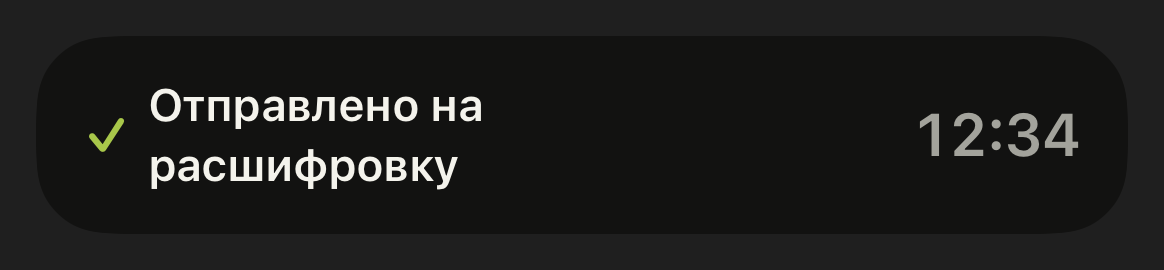
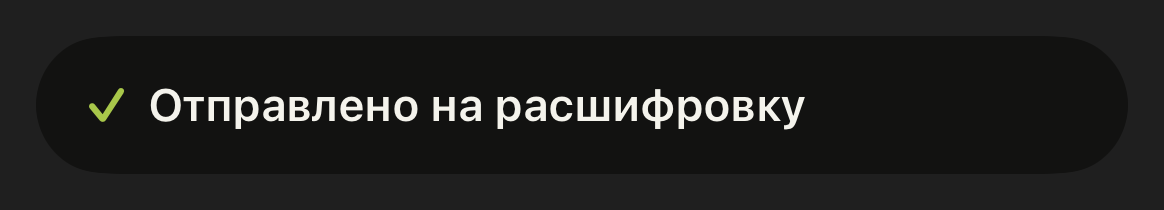
test(ios): кнопки островка в фоне — пауза, продолжить, сохранить; заметка о записи в фоне
- RecordingUITests: «Пауза» → «Продолжить» → «Сохранить» нажимаются в
  настоящем островке симулятора, пока Lori в фоне; запись оказывается в
  списке. Плашка записи над листом — на заглушке микрофона.
- Прощание островка без таймера: «0:00» читалось как пустая запись.
- CLAUDE.md: «Запись в фоне, пауза при звонке и Dynamic Island — 24 октября
  2026» — что сделано, замеры, проверено числами (816 модульных, 0 падений),
  что не проверено, сценарий для телефона, риски IPA Shelf.
- AGENTS.md: правило про подложку экрана блокировки.

Changed region(s): [[0.0928, 0.3143, 0.7113, 0.7143], [0.7732, 0.4, 0.9278, 0.6], [0.0619, 0.5143, 0.0928, 0.5714]]

diff --git a/ios/LoriLocalUITests/RecordingUITests.swift b/ios/LoriLocalUITests/RecordingUITests.swift
@@ -115,6 +115,49 @@ final class RecordingUITests: XCTestCase {
         XCTAssertTrue(app.buttons["recordButton"].waitForExistence(timeout: 10))
     }
 
+    /// Кнопки островка, пока Lori не на виду: пауза, продолжение и «Сохранить» идут
+    /// интентами в процесс приложения, и запись оказывается в списке, хотя Lori никто
+    /// не открывал. Микрофон тут заглушка — право начать запись из фона
+    /// (`AudioRecordingIntent`) проверяется только на телефоне; здесь — вся проводка.
+    func testIslandButtonsPauseResumeAndSaveWithoutOpeningLori() throws {
+        continueAfterFailure = false
+        let app = launch()
+        let firstBefore = cards(in: app).firstMatch.waitForExistence(timeout: 3)
+            ? cards(in: app).firstMatch.label : ""
+        tap(app.buttons["recordButton"])
+        XCTAssertTrue(app.buttons["Поставить на паузу"].waitForExistence(timeout: 5))
+        sleep(2)
+        XCUIDevice.shared.press(.home)
+        sleep(2)
+
+        let springboard = XCUIApplication(bundleIdentifier: "com.apple.springboard")
+        let island = springboard.coordinate(withNormalizedOffset: CGVector(dx: 0.5, dy: 0.025))
+        island.press(forDuration: 1.5)
+        let pause = springboard.buttons["Поставить запись на паузу"]
+        XCTAssertTrue(pause.waitForExistence(timeout: 5), "в развёрнутом островке есть «Пауза»")
+        pause.tap()
+
+        let resume = springboard.buttons["Продолжить запись"]
+        XCTAssertTrue(resume.waitForExistence(timeout: 5), "после паузы островок предлагает «Продолжить»")
+        save("island-intent-paused")
+        resume.tap()
+        XCTAssertTrue(pause.waitForExistence(timeout: 5), "«Продолжить» снова пишет — островок предлагает «Пауза»")
+        save("island-intent-resumed")
+        sleep(1)
+
+        let finish = springboard.buttons["Остановить и сохранить запись"]
+        XCTAssertTrue(finish.waitForExistence(timeout: 5))
+        finish.tap()
+        XCTAssertTrue(finish.waitForNonExistence(timeout: 10), "после «Сохранить» активность уходит")
+        save("island-intent-saved")
+
+        app.activate()
+        XCTAssertTrue(app.buttons["recordButton"].waitForExistence(timeout: 10), "Lori в покое: запись закончена из островка")
+        let first = cards(in: app).firstMatch
+        XCTAssertTrue(first.waitForExistence(timeout: 5))
+        XCTAssertNotEqual(first.label, firstBefore, "запись из островка — сверху списка")
+    }
+
     // MARK: - Помощники
 
     private func launch() -> XCUIApplication {

diff --git a/ios/Shared/RecordingActivityViews.swift b/ios/Shared/RecordingActivityViews.swift
@@ -213,7 +213,11 @@ struct RecordingLockScreenView: View {
 
     @ViewBuilder
     private var timer: some View {
-        if stale, state.phase == .recording {
+        if state.phase == .finished {
+            // Прощанию таймер не нужен: запись уже в списке, «0:00» здесь читалось бы
+            // как пустая запись.
+            EmptyView()
+        } else if stale, state.phase == .recording {
             Image(systemName: "exclamationmark.circle")
                 .font(.system(size: 18, weight: .semibold))
                 .foregroundStyle(RecordingTint.muted)
@@ -300,7 +304,9 @@ enum RecordingIslandParts {
 
         var body: some View {
             Group {
-                if stale, state.phase == .recording {
+                if state.phase == .finished {
+                    EmptyView()
+                } else if stale, state.phase == .recording {
                     Image(systemName: "exclamationmark.circle")
                         .font(.system(size: 17, weight: .semibold))
                         .foregroundStyle(RecordingTint.muted)

diff --git a/ios/CLAUDE.md b/ios/CLAUDE.md
@@ -2649,7 +2649,7 @@ workspace.fileURL(for: entry.relativePath))`. Пока её нет, файл, о
   (у поднятой записи). В расширении они компилируются, но код приложения не тянут:
   `RecordingIntentBridge` с протоколом, обработчик ставит приложение. «Расшифровать» при движке на
   телефоне — `Link` на `<bundle ID>://recording/finish` (схема добавлена в `CFBundleURLTypes`).
-  Активность: `ActivityPresenter` (`LiveRecordingActivity`), обновления цепочкой, срок годности 15 мин
+  Активность: `RecordingActivityPresenting` (`LiveRecordingActivity`), обновления цепочкой, срок годности 15 мин
   у идущей записи с подтверждением раз в 5 мин, прощание «Отправлено на расшифровку» 2,5 с.
 - **`project.yml`**: `UIBackgroundModes` += `audio`, `NSSupportsLiveActivities`, `CFBundleURLTypes`;
   `LORI_APP_BUNDLE_ID`, `LORI_DISPLAY_NAME`, `MARKETING_VERSION`, `CURRENT_PROJECT_VERSION` — на
@@ -2677,4 +2677,127 @@ workspace.fileURL(for: entry.relativePath))`. Пока её нет, файл, о
 - **Пауза из фона берёт фоновое окно UIKit.** Микрофон отпущен — iOS усыпит Lori в ту же секунду, и
   обновление островка не успело бы уйти.
 
-<!-- RESULTS -->
+### Замерено по дороге (симулятор iPhone 17 Pro, iOS 26.5)
+
+- **Незакрытый m4a не читается, закрытый держит `moov` в начале.** `AVAudioFile`, записанный и
+  закрытый: атомы `ftyp`, `moov`, `free`, `mdat` — оглавление спереди, и файл читается даже с
+  отрезанной половиной. Копия того же файла, снятая при открытом писателе: `ftyp`, дальше нули —
+  `AVAudioFile` его не открывает. Ровно это и остаётся от процесса, убитого посреди куска; отсюда и
+  куски с закрытием на каждой паузе, и тесты «убитого куска» копией при открытом писателе (первая
+  версия теста резала хвост закрытого файла — и он оставался читаемым, тест врал).
+- **Сквозной экспорт композиции в `.m4a` не поддерживается, в MPEG-4 — да.** Для композиции из
+  двух кусков AAC: `compatibility(ofExportPreset: Passthrough, outputFileType: .m4a)` — `false`,
+  экспорт падает с -11838 «Операция остановлена» (внутри -16976); `.mp4` и `.mov` — `true`. Экспорт в
+  `.mp4` дал файл с той же дорожкой `aac` (без перекодирования), длина по `AVURLAsset` ровно
+  1,5 + 2,0 = 3,5 с; `AVAudioFile` читает его как 3,574 с — с «разгоном» AAC каждого куска,
+  который у `AVURLAsset` срезан списком правок. Файл всё равно называется `.m4a` (бренд `ftyp` —
+  `mp42`).
+- **`activityBackgroundTint` с динамическим цветом решается светлым, а начинка экрана блокировки —
+  тёмной темой.** На первом снимке «Пауза» и «Продолжить» были кремовым по кремовому
+  (`design/recording-2026-10-24/sim-lockscreen-before-fix.png`). Теперь подложка берётся из
+  `colorScheme` начинки (`RecordingTint.canvas(for:)`); в симуляторе экран блокировки рисует
+  карточку тёмной и в светлой, и в тёмной теме системы.
+- **iOS 26 один раз спрашивает «Разрешить Эфир активности для приложения…»** на экране блокировки
+  (`sim-lockscreen-permission.png`). Это системный вопрос, не наш; в островке активность видна и до
+  ответа.
+- **Висящая активность от убитого процесса снимается запуском.** Тест-раннер убил Lori посреди
+  прощания «Сохранено» — островок остался с «✓»; при следующем запуске `reconcileActivity` его убрал
+  (видно на записи экрана прогона).
+
+### Проверено
+
+Симулятор «Lori REC-B» — iPhone 17 Pro, iOS 26.5 (другого рантайма нет).
+
+- **Модульные — 816 выполнено, 8 пропущено, 0 падений** (было 779; новых 37:
+  `RecordingControllerTests` 26 — старт, пауза/продолжение, прерывания по `userInfo` (звонок, другое
+  приложение, выключенный микрофон, потеря входа, сброс звукового сервера, сбой рекордера и звонок
+  следом), `willTerminate`, восстановление после «убитого» куска, склейка трёх кусков с
+  `enqueue`, «Сохранить» без расшифровки, кнопка «Расшифровать» по движку, пустая запись, корзина,
+  интенты через мост, ссылка; `RecordingAssemblerTests` 9 — склейка без перекодирования, нечитаемый
+  кусок, один кусок, разбор уведомлений iOS 18–26 и полей iOS 27, смена маршрута, слова;
+  `RecordingActivitySnapshotTests` 2 — PNG). Пропущенные 8 — те же интеграционные, что и раньше.
+- **UI на заглушке микрофона (`RecordingUITests`, 4 из 4)**: запись → пауза → продолжить → стоп даёт
+  в списке ровно одну запись (`sim-app-saved.png`); плашка «Идёт запись» над листом настроек
+  (диктофон из окружения приложения доходит до листов); **настоящий островок в симуляторе** —
+  свёрнутый, развёрнутый, «Пауза» из островка; **«Пауза» → «Продолжить» → «Сохранить» нажаты в
+  островке, пока Lori в фоне** — интенты отработали в процессе приложения, запись появилась в списке,
+  островок попрощался «Сохранено в Lori» и ушёл; карточка экрана блокировки.
+- **Прежние UI-тесты панели, записи и плашки**: `TranscriptionUITests` (панель, плашка, `+`, запись
+  открывается, карточка, очередь из карточки, удаление с экрана записи) — 7: 6 прошли, 1 пропущен
+  (`testRecordingBannerIsVisibleOverAnOpenSheet` — у симулятора нет микрофона, как и раньше; тот же
+  сценарий на заглушке прошёл); `TranscriptScreenUITests` — 16: 11 прошли, 5 пропущены (им нужен
+  набор `seed-record-states.sh`, к записи отношения не имеют). Падений нет.
+- **Сборки**: LoriQA для симулятора; **LoriLocal Release для устройства** (`generic/platform=iOS`,
+  без подписи) — ветки iOS 27 собраны и под arm64. В готовых `Info.plist`: `ru.ilyaqa.lori.local` и
+  `ru.ilyaqa.lori.local.RecordingActivity`, `ru.ilyaqa.lori.local.qa` и
+  `ru.ilyaqa.lori.local.qa.RecordingActivity`; версия 1.0, сборка 9 у обоих; `UIBackgroundModes` —
+  `audio`, `processing`; `NSSupportsLiveActivities`; схема ссылок — bundle ID сборки. Предупреждений
+  в новом коде нет.
+- Снимки — `design/recording-2026-10-24/`: `render-*` — виды активности `ImageRenderer` в светлой и
+  тёмной теме (запись, звонок, поднятая после перезапуска, устаревшая, прощание, час и больше),
+  `sim-*` — настоящий островок и экран блокировки в симуляторе.
+
+### Ловушки прогона
+
+- Один полный модульный прогон кончился «The test runner hung before establishing connection» —
+  после UI-тестов с центром уведомлений симулятор перестал отвечать; перезапуск симулятора, и
+  повтор прошёл целиком.
+- Один прогон `testZZ4…` через `xcodebuild test` запустил Lori QA будто без аргументов: подсказка
+  про заголовки видна, а «Записать» спросил доступ к микрофону, то есть заглушки не было. Четыре
+  следующих прогона того же теста — зелёные; причину не нашёл.
+- Первый `test-without-building` после добавления теста выполнил 0 тестов — известное, повтор прошёл.
+
+### Что НЕ проверено
+
+- **Ничего на телефоне.** Настоящий микрофон в фоне, настоящий звонок (принятый и отклонённый
+  баннером — `setPrefersNoInterruptionsFromSystemAlerts`), различение звонка `CXCallObserver`,
+  AirPods и потеря входа, сброс звукового сервера, `willTerminate` при смахивании, смерть процесса
+  посреди куска (в тестах — копия файла при открытом писателе), батарея за час записи.
+- **Право продолжить запись из фона (`AudioRecordingIntent`)** — главное утверждение, на котором
+  держится «Продолжить» в островке. В симуляторе продолжает заглушка, которой звуковая сессия не
+  нужна; на телефоне iOS может отказать в активации записи из фона — тогда запись останется на паузе
+  с «микрофон занят», но не потеряется.
+- **Ветки iOS 27** (`didBecomeInactiveNotification`, `resumptionRecommendationNotification`) —
+  только сборкой: рантайма iOS 27 здесь нет; модульно проверен разбор полей контекста.
+- **Кнопки на запертом экране** (документация WidgetKit говорит, что на запертом устройстве кнопки
+  ждут разблокировки; у интентов `authenticationPolicy` по умолчанию `alwaysAllowed`) — в симуляторе
+  карточка снята в центре уведомлений, а не на запертом экране.
+- **«Расшифровать» при движке на телефоне** — ссылка `<bundle ID>://recording/finish` открывает Lori
+  и зовёт `finish`; в симуляторе нажатие ссылки не снято, а принятие заявки
+  `BGContinuedProcessingTask` после него проверяется только на телефоне.
+- **Устаревание активности** через 15 минут без подтверждения (не ждали); предел Live Activity в
+  8 часов; iOS 18 (цель сборки) не запускалась.
+- **Расшифровка после «Расшифровать» из фона** — постановка в очередь проверена, сама фоновая
+  расшифровка — работа соседней ветки.
+
+### Как проверить на телефоне (Lori QA)
+
+1. «Расшифровка»: облачный движок с ключом, «Расшифровывать запись сразу» включено.
+2. Записать, сказать фразу, уйти на «Домой»: в островке — волна и идущий таймер. Минуту говорить.
+3. Позвонить на этот телефон и **принять**: островок — «⏸ Пауза · звонок», таймер стоит. Положить
+   трубку — «Пауза · звонок закончился», запись сама не продолжилась. Отдельно: звонок баннером
+   **отклонить** — запись не должна встать.
+4. Долгое нажатие на островок → «Продолжить»: таймер пошёл. Сказать фразу.
+5. Запереть телефон: карточка на экране блокировки, «Пауза» и «Продолжить» оттуда.
+6. «Расшифровать» в островке: «Отправлено на расшифровку», островок уходит. Открыть Lori: одна
+   запись, длина — сумма кусков, она в очереди; прослушать стыки после паузы.
+7. С движком на телефоне (GigaAM): «Расшифровать» в островке открывает Lori, и запись встаёт в
+   очередь с системной полосой.
+8. Во время записи смахнуть Lori из переключателя и открыть снова: запись на паузе «приложение
+   перезапускалось», есть «Продолжить» / «Расшифровать» / «Удалить».
+9. «Настройки → Хранилище → Журнал работы»: строки «запись: …» по каждому шагу.
+
+### Риски для установки через IPA Shelf
+
+- **В бандле теперь встроенное расширение** `PlugIns/RecordingActivity.appex`
+  (`ru.ilyaqa.lori.local.RecordingActivity`). Менеджер обязан переподписать его тем же профилем;
+  если он расширения не подпишет, может не встать всё приложение, а не только островок. По словам
+  архитектора, с его сборки 11 расширение WidgetKit у YouTube запускалось; `IPA_RELEASE.md` ещё
+  говорит, что Probe расширения не подписывает, — эта строка, видимо, устарела, но проверена только
+  установкой.
+- У расширения **нет ни одного entitlement** (ни App Group, ни Keychain): подписывать нечего, кроме
+  `application-identifier`.
+- Для бесплатной команды расширение — ещё один App ID против недельного лимита, если подпись не
+  через шаблонный профиль.
+- **Номер сборки не поднят** (9). Поднимать теперь в `project.yml`, `settings.base` —
+  `CURRENT_PROJECT_VERSION` общий у приложения и расширения.

diff --git a/ios/AGENTS.md b/ios/AGENTS.md
@@ -847,7 +847,10 @@ Island — 24 октября 2026».
   12:34» и «▶ Продолжить» / «↑ Расшифровать». **Слова «Запись» и красного нет** — решение владельца
   (оранжевую точку микрофона iOS не скрыть). Таймер — `Text(timerInterval:pauseTime:)`, без
   посекундных обновлений. Цвета расширения (`RecordingTint`) повторяют значения `LoriPalette` —
-  **меняются вместе**.
+  **меняются вместе**. **Подложка экрана блокировки — не динамический цвет**, а
+  `RecordingTint.canvas(for: colorScheme)` начинки: динамический в `activityBackgroundTint` система
+  решала светлым, а буквы рисовала тёмной темой, и «Пауза» с «Продолжить» пропадали (снимок
+  `design/recording-2026-10-24/sim-lockscreen-before-fix.png`).
 - **Версия, номер сборки, bundle ID и имя — на уровне проекта** (`project.yml`, `settings.base`):
   у встроенного расширения они обязаны совпадать с приложением. Номер сборки для IPA Shelf
   поднимается там.
